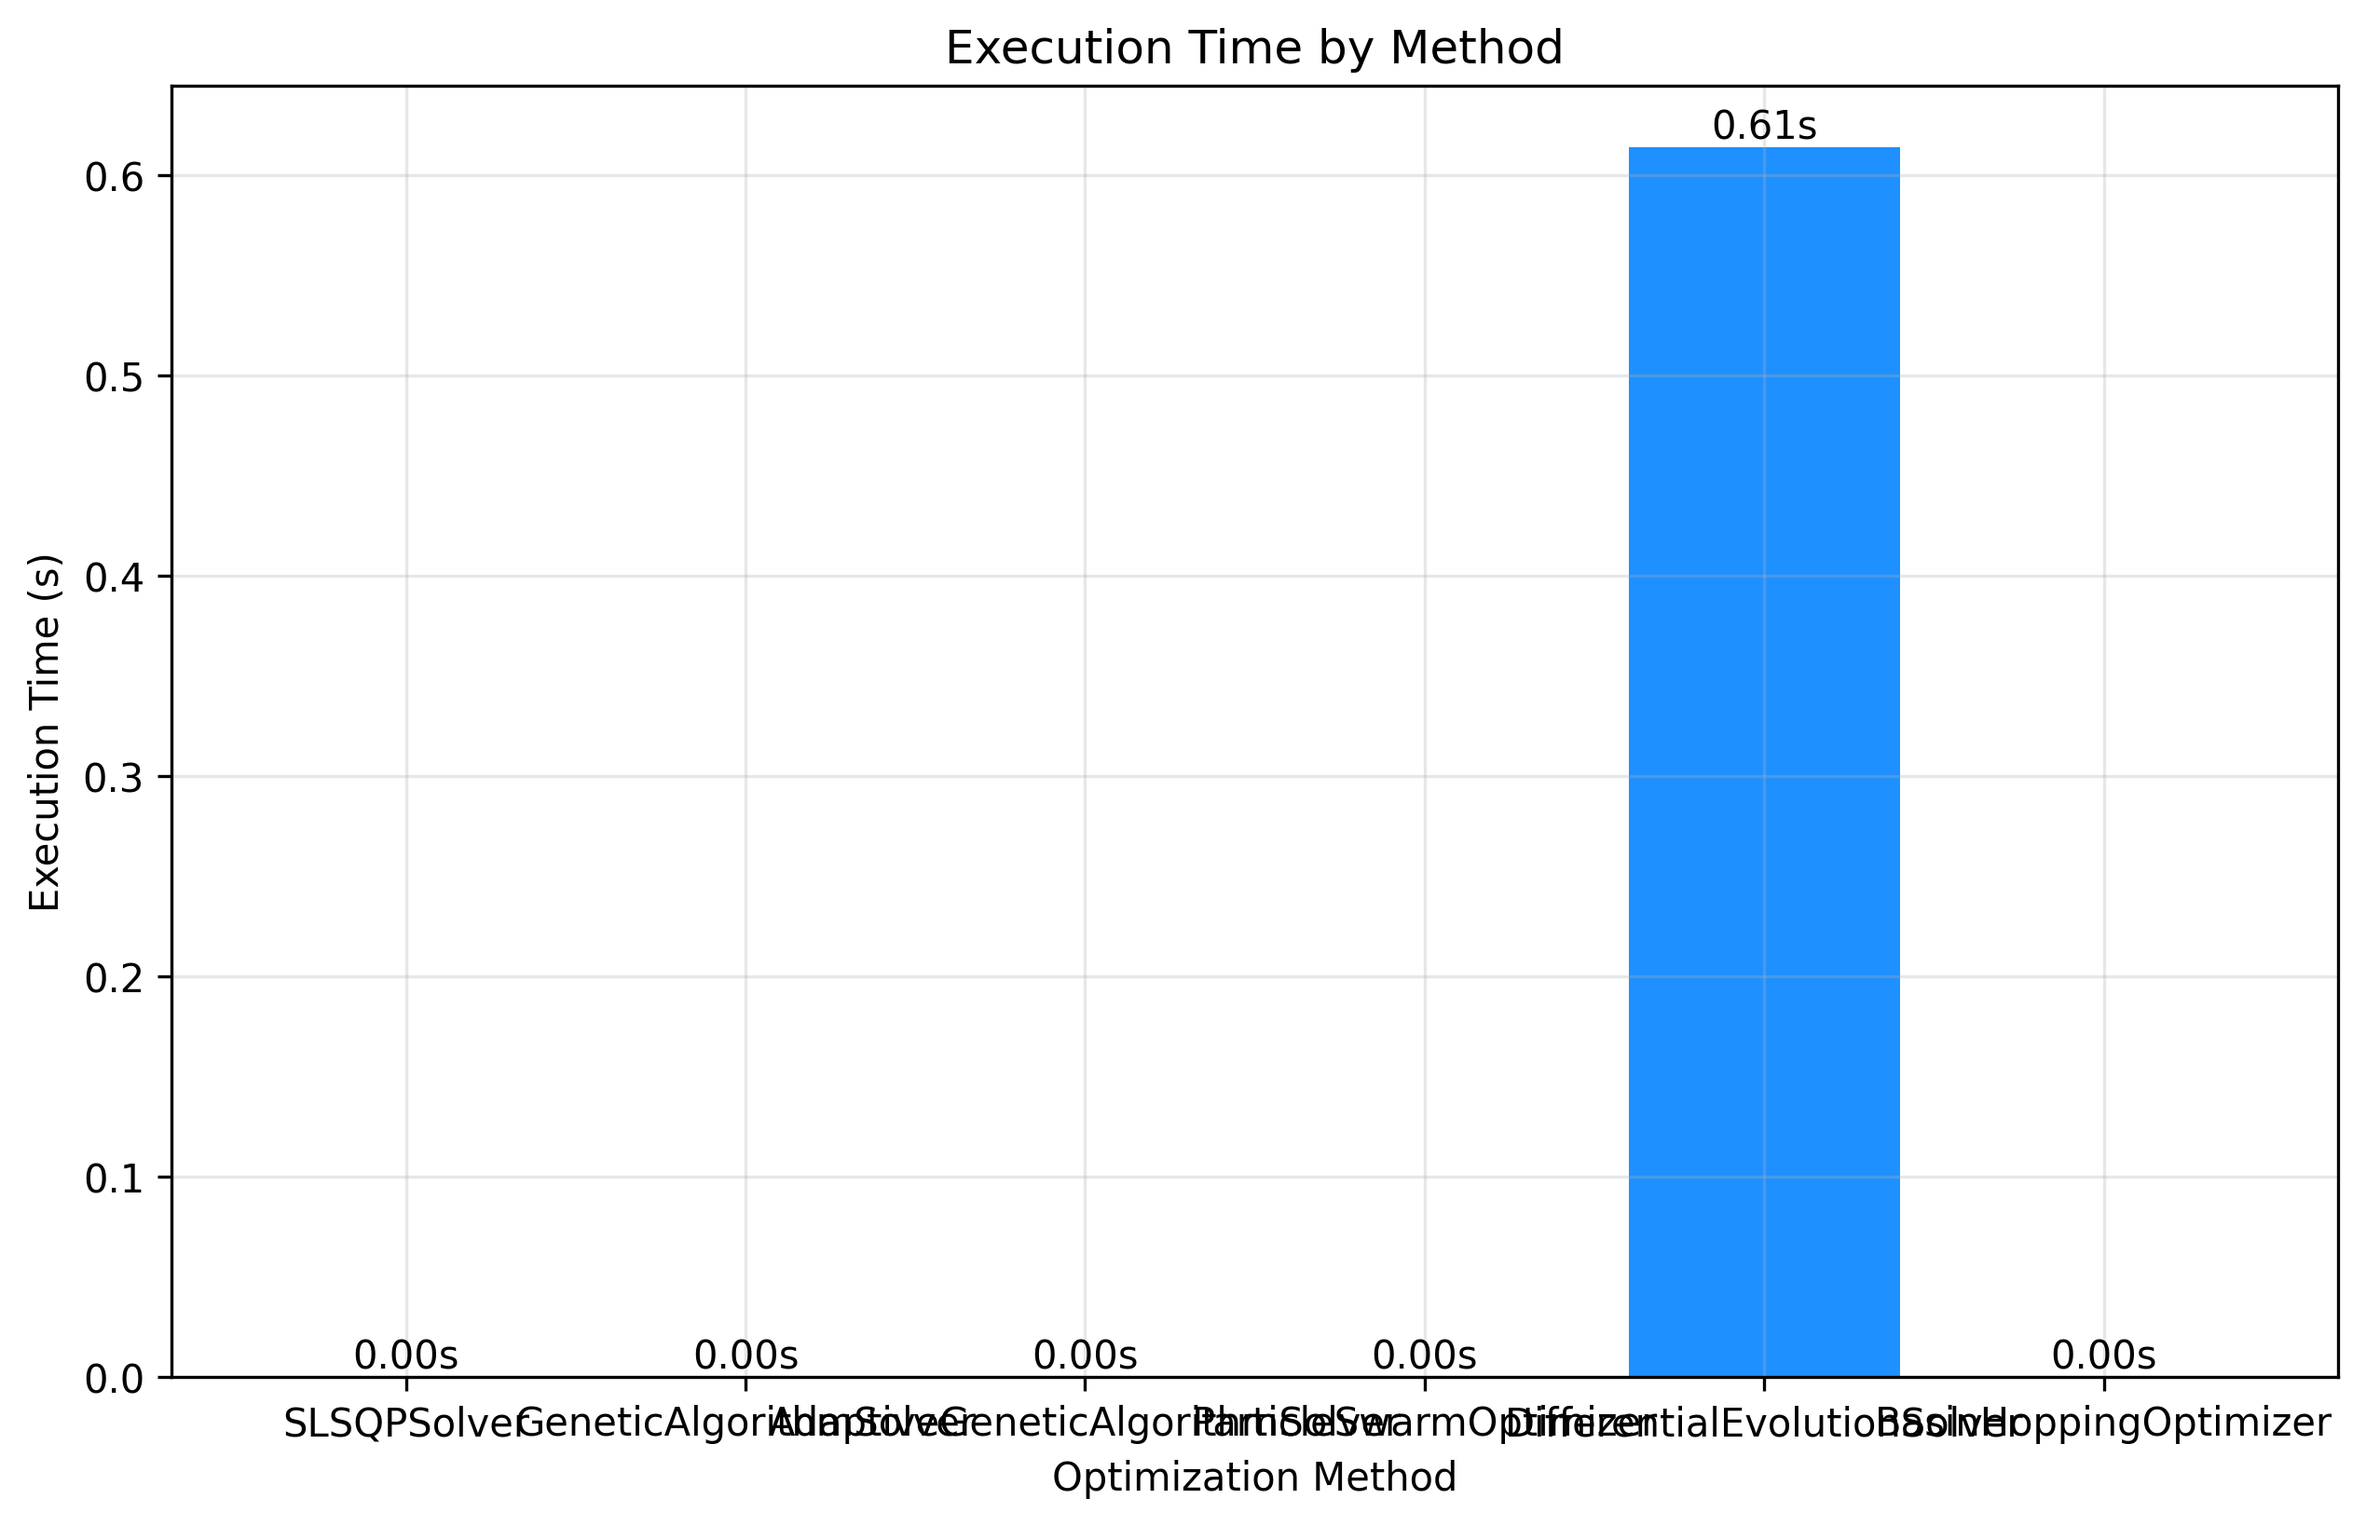
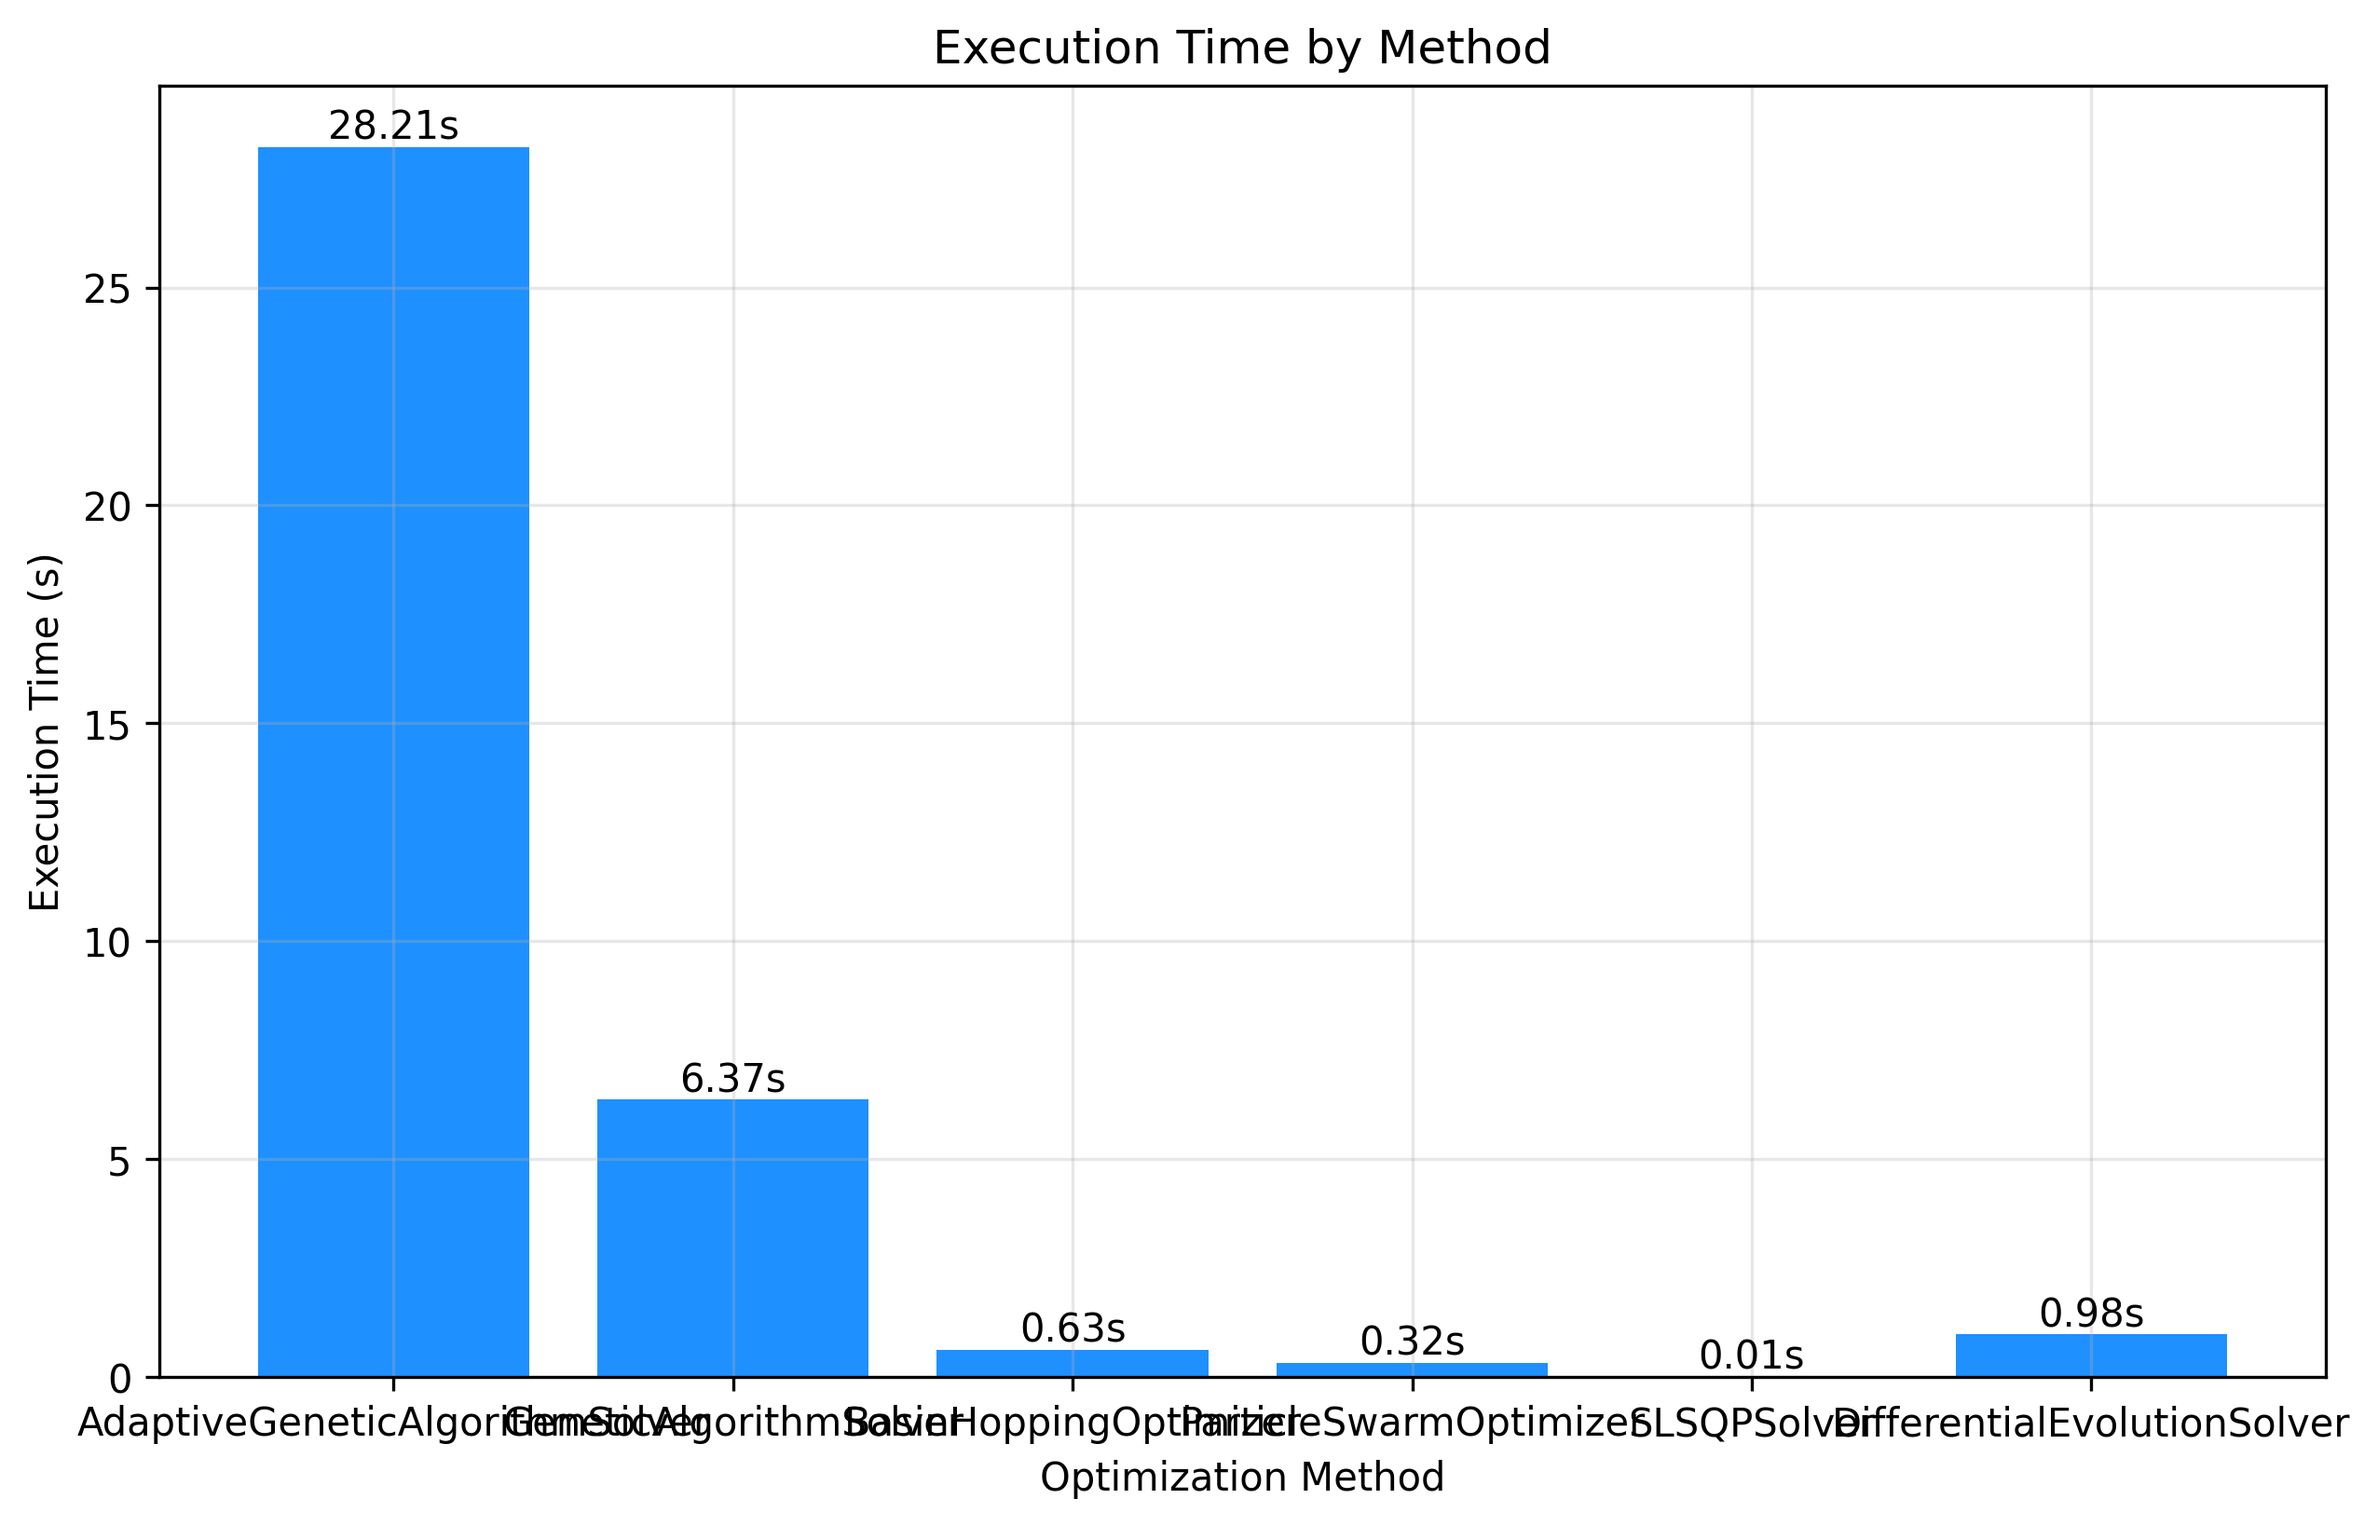
paralell solver fixed

Changed region(s): [[0.0311, 0.0623, 0.9957, 0.9963], [0.4045, 0.0, 0.6534, 0.0623]]

diff --git a/Stage_Opt/src/optimization/parallel_solver.py b/Stage_Opt/src/optimization/parallel_solver.py
@@ -115,21 +115,30 @@ class ParallelSolver:
                 for future in done:
                     try:
                         solver_name, results = future.result(timeout=1)  # Short timeout for result collection
-                        all_results[solver_name] = results
+                        all_results[solver_name] = {
+                            'method': solver_name,  # Add method name for plotting
+                            'success': results.get('success', False),
+                            'message': results.get('message', ''),
+                            'payload_fraction': float(results.get('payload_fraction', 0.0)),
+                            'constraint_violation': float(results.get('constraint_violation', float('inf'))),
+                            'execution_time': float(results.get('execution_metrics', {}).get('execution_time', 0.0)),
+                            'n_iterations': int(results.get('execution_metrics', {}).get('iterations', 0)),
+                            'n_function_evals': int(results.get('execution_metrics', {}).get('function_evaluations', 0)),
+                            'stages': results.get('stages', [])
+                        }
                     except Exception as e:
                         solver = future_to_solver[future]
                         solver_name = solver.__class__.__name__
                         logger.error(f"Error collecting results from {solver_name}: {str(e)}")
                         all_results[solver_name] = {
+                            'method': solver_name,
                             'success': False,
                             'message': f"Error collecting results: {str(e)}",
                             'payload_fraction': 0.0,
                             'constraint_violation': float('inf'),
-                            'execution_metrics': {
-                                'execution_time': 0.0,
-                                'iterations': 0,
-                                'function_evaluations': 0
-                            },
+                            'execution_time': 0.0,
+                            'n_iterations': 0,
+                            'n_function_evals': 0,
                             'stages': []
                         }
                 
@@ -139,15 +148,14 @@ class ParallelSolver:
                     solver = future_to_solver[future]
                     solver_name = solver.__class__.__name__
                     all_results[solver_name] = {
+                        'method': solver_name,
                         'success': False,
                         'message': "Solver timeout",
                         'payload_fraction': 0.0,
                         'constraint_violation': float('inf'),
-                        'execution_metrics': {
-                            'execution_time': 0.0,
-                            'iterations': 0,
-                            'function_evaluations': 0
-                        },
+                        'execution_time': 0.0,
+                        'n_iterations': 0,
+                        'n_function_evals': 0,
                         'stages': []
                     }
                     
@@ -158,15 +166,14 @@ class ParallelSolver:
                 solver_name = solver.__class__.__name__
                 if solver_name not in all_results:
                     all_results[solver_name] = {
+                        'method': solver_name,
                         'success': False,
                         'message': f"Parallel execution error: {str(e)}",
                         'payload_fraction': 0.0,
                         'constraint_violation': float('inf'),
-                        'execution_metrics': {
-                            'execution_time': 0.0,
-                            'iterations': 0,
-                            'function_evaluations': 0
-                        },
+                        'execution_time': 0.0,
+                        'n_iterations': 0,
+                        'n_function_evals': 0,
                         'stages': []
                     }
                     
@@ -178,7 +185,7 @@ class ParallelSolver:
         for solver_name, result in all_results.items():
             if result['success']:
                 payload = result['payload_fraction']
-                violation = result.get('constraint_violation', float('inf'))
+                violation = result['constraint_violation']
                 
                 # Only consider solutions with acceptable constraint violations
                 if violation < 1e-3 and payload > best_payload:
@@ -193,9 +200,4 @@ class ParallelSolver:
         else:
             logger.warning("No valid solution found by any solver")
                 
-        return {
-            'all_results': all_results,
-            'best_solver': best_solver,
-            'best_result': best_result,
-            'total_execution_time': total_time
-        }
+        return all_results  # Return just the results dictionary to match expected format

diff --git a/Stage_Opt/src/optimization/objective.py b/Stage_Opt/src/optimization/objective.py
@@ -130,7 +130,8 @@ class RocketStageOptimizer:
         parallel_solver = ParallelSolver(parallel_config)
         
         try:
-            # Run all solvers in parallel
+            # Run all solvers in parallel and return results directly
+            # The parallel solver now returns results in the format expected by reporting
             results = parallel_solver.solve(self.solvers, initial_guess, bounds)
             
             if not results:
